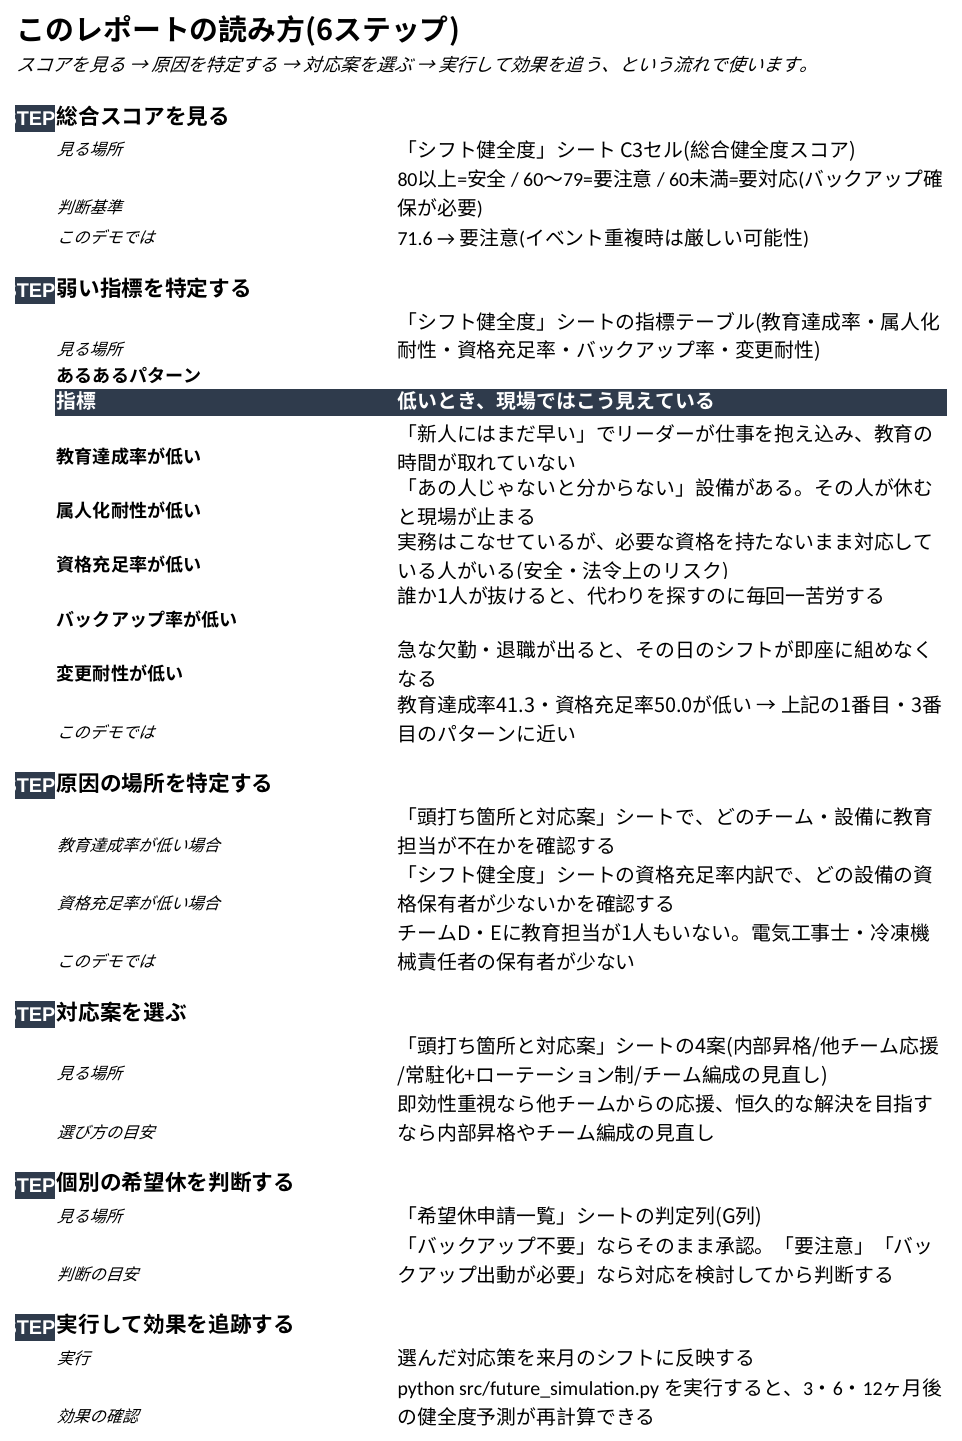
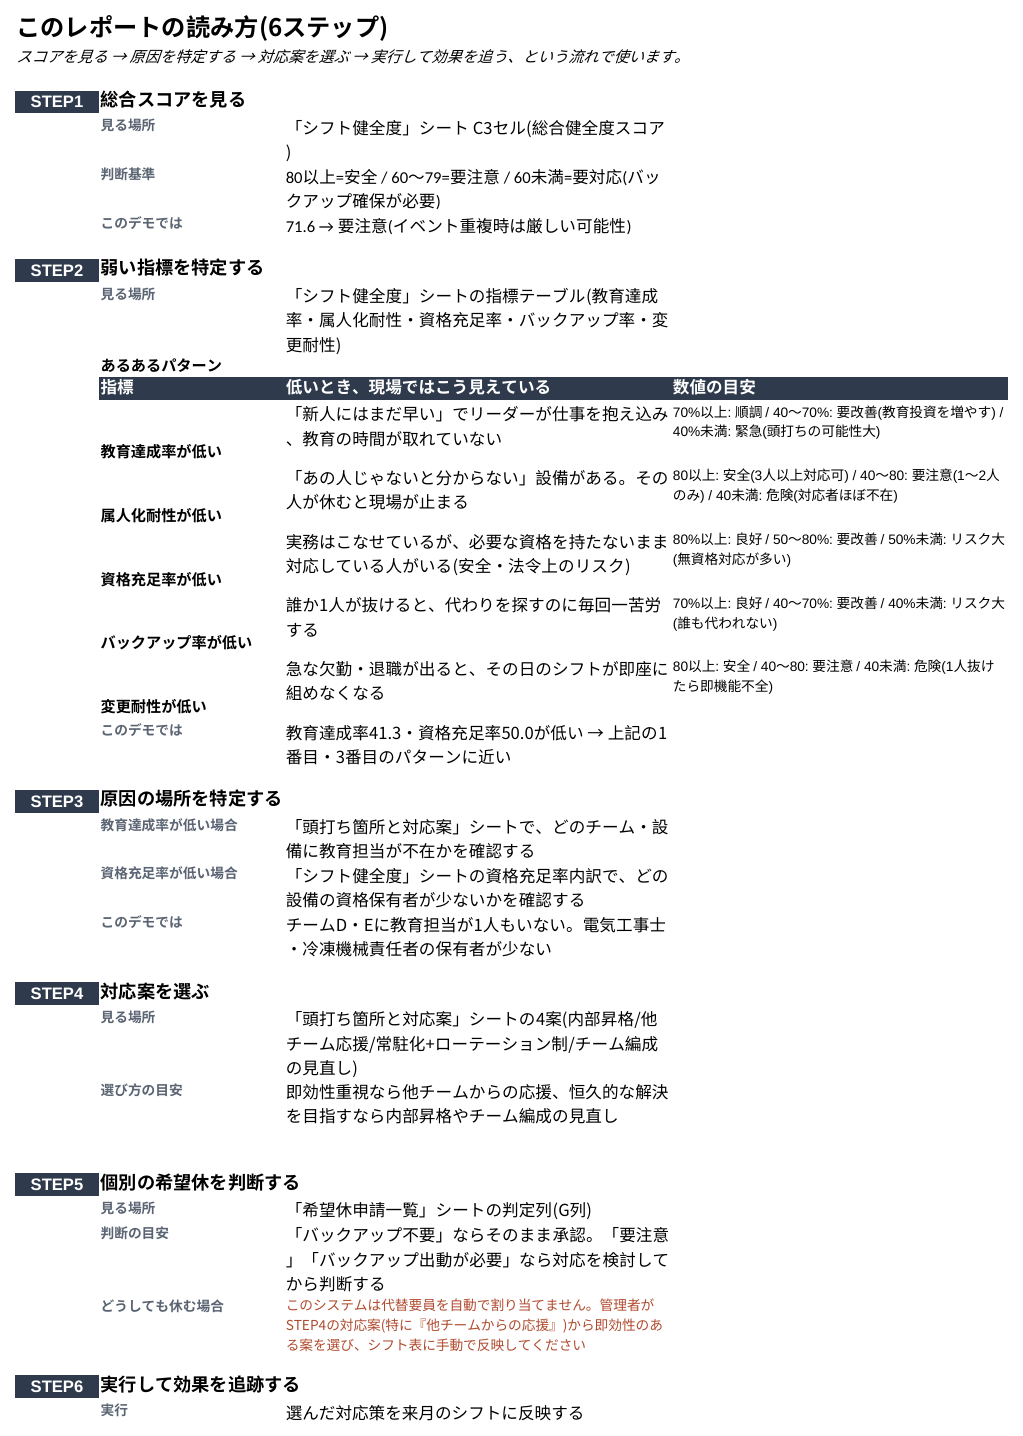
使い方シートの見た目修正・数値目安追加・メンバー向け手順追加、ダッシュボードのメンバービューに健全度表示を追加

diff --git a/dashboard/ShiftDashboard.jsx b/dashboard/ShiftDashboard.jsx
@@ -282,6 +282,26 @@ export default function ShiftDashboard() {
         <div className="p-8 text-slate-500 text-sm">読み込み中...</div>
       ) : view === "member" ? (
         <main className="p-5 max-w-md mx-auto space-y-6">
+          <div className="bg-slate-900 border border-slate-800 rounded-xl p-4 flex items-center gap-4">
+            <div className="shrink-0">
+              <div className="font-mono text-3xl font-bold" style={{ color: healthColor(DATA.health_overall) }}>
+                {DATA.health_overall.toFixed(1)}
+              </div>
+              <div className="text-[10px] text-slate-500 tracking-widest uppercase text-center">健全度</div>
+            </div>
+            <div className="text-xs text-slate-400 leading-relaxed">
+              <span className="text-slate-200 font-medium">
+                {DATA.health_overall >= 80
+                  ? "現在は余裕があります。"
+                  : DATA.health_overall >= 60
+                  ? "現在はやや余裕がない状態です。"
+                  : "現在は厳しい状態です。"}
+              </span>
+              希望休は通常どおり申請できます。教育・資格取得が進むほど、
+              この数字が上がり、希望休はさらに通りやすくなります。
+            </div>
+          </div>
+
           <div>
             <label className="text-xs text-slate-500 tracking-wide">あなた(デモ用の選択)</label>
             <select

diff --git a/excel/generate_excel_report.py b/excel/generate_excel_report.py
@@ -516,7 +516,7 @@ def build_workbook():
         ws_gaps.cell(row=r, column=3, value=len(b["covers"]))
 
     detail_start = summary_header_row + 1 + len(need["breakdown"]) + 2
-    ws_gaps.cell(row=detail_start, column=1, value="箇所ごとの対応案(3案)").font = BOLD
+    ws_gaps.cell(row=detail_start, column=1, value="箇所ごとの対応案(4案)").font = BOLD
     header_row2 = detail_start + 1
     for c, h in enumerate(["チーム/設備", "案1: 内部昇格", "案2: 他チームからの応援", "案3: 常駐化+ローテーション制", "案4: チーム編成の見直し(異動)"], start=1):
         cell = ws_gaps.cell(row=header_row2, column=c, value=h)
@@ -548,16 +548,17 @@ def build_workbook():
     ws_gaps.row_dimensions[note_row].height = 40
 
     # ---------------- 使い方(読み方6ステップ) ----------------
-    ws_guide.column_dimensions["A"].width = 4
-    ws_guide.column_dimensions["B"].width = 34
-    ws_guide.column_dimensions["C"].width = 55
+    ws_guide.column_dimensions["A"].width = 10
+    ws_guide.column_dimensions["B"].width = 22
+    ws_guide.column_dimensions["C"].width = 46
+    ws_guide.column_dimensions["D"].width = 40
 
     ws_guide["A1"] = "このレポートの読み方(6ステップ)"
     ws_guide["A1"].font = TITLE_FONT
-    ws_guide.merge_cells("A1:C1")
+    ws_guide.merge_cells("A1:D1")
     ws_guide["A2"] = "スコアを見る → 原因を特定する → 対応案を選ぶ → 実行して効果を追う、という流れで使います。"
     ws_guide["A2"].font = Font(name=FONT_NAME, italic=True, size=10)
-    ws_guide.merge_cells("A2:C2")
+    ws_guide.merge_cells("A2:D2")
 
     def step_header(row, num, title):
         cell = ws_guide.cell(row=row, column=1, value=f"STEP{num}")
@@ -569,7 +570,9 @@ def build_workbook():
         ws_guide.merge_cells(start_row=row, start_column=2, end_row=row, end_column=3)
 
     def detail_line(row, label, text):
-        ws_guide.cell(row=row, column=2, value=label).font = Font(name=FONT_NAME, italic=True, size=9)
+        label_cell = ws_guide.cell(row=row, column=2, value=label)
+        label_cell.font = Font(name=FONT_NAME, bold=True, size=9, color="5A6472")
+        label_cell.alignment = Alignment(vertical="top")
         cell = ws_guide.cell(row=row, column=3, value=text)
         cell.alignment = Alignment(wrap_text=True, vertical="top")
         return cell
@@ -591,23 +594,46 @@ def build_workbook():
     ws_guide.cell(row=r, column=2, value="あるあるパターン").font = Font(name=FONT_NAME, bold=True, size=10)
     r += 1
     header_row = r
-    for c, h in enumerate(["指標", "低いとき、現場ではこう見えている"], start=2):
+    for c, h in enumerate(["指標", "低いとき、現場ではこう見えている", "数値の目安"], start=2):
         cell = ws_guide.cell(row=header_row, column=c, value=h)
         cell.font = HEADER_FONT
         cell.fill = HEADER_FILL
     r += 1
     aruaru = [
-        ("教育達成率が低い", "「新人にはまだ早い」でリーダーが仕事を抱え込み、教育の時間が取れていない"),
-        ("属人化耐性が低い", "「あの人じゃないと分からない」設備がある。その人が休むと現場が止まる"),
-        ("資格充足率が低い", "実務はこなせているが、必要な資格を持たないまま対応している人がいる(安全・法令上のリスク)"),
-        ("バックアップ率が低い", "誰か1人が抜けると、代わりを探すのに毎回一苦労する"),
-        ("変更耐性が低い", "急な欠勤・退職が出ると、その日のシフトが即座に組めなくなる"),
+        (
+            "教育達成率が低い",
+            "「新人にはまだ早い」でリーダーが仕事を抱え込み、教育の時間が取れていない",
+            "70%以上: 順調 / 40〜70%: 要改善(教育投資を増やす) / 40%未満: 緊急(頭打ちの可能性大)",
+        ),
+        (
+            "属人化耐性が低い",
+            "「あの人じゃないと分からない」設備がある。その人が休むと現場が止まる",
+            "80以上: 安全(3人以上対応可) / 40〜80: 要注意(1〜2人のみ) / 40未満: 危険(対応者ほぼ不在)",
+        ),
+        (
+            "資格充足率が低い",
+            "実務はこなせているが、必要な資格を持たないまま対応している人がいる(安全・法令上のリスク)",
+            "80%以上: 良好 / 50〜80%: 要改善 / 50%未満: リスク大(無資格対応が多い)",
+        ),
+        (
+            "バックアップ率が低い",
+            "誰か1人が抜けると、代わりを探すのに毎回一苦労する",
+            "70%以上: 良好 / 40〜70%: 要改善 / 40%未満: リスク大(誰も代われない)",
+        ),
+        (
+            "変更耐性が低い",
+            "急な欠勤・退職が出ると、その日のシフトが即座に組めなくなる",
+            "80以上: 安全 / 40〜80: 要注意 / 40未満: 危険(1人抜けたら即機能不全)",
+        ),
     ]
-    for label, text in aruaru:
+    for label, text, threshold in aruaru:
         ws_guide.cell(row=r, column=2, value=label).font = Font(name=FONT_NAME, bold=True, size=10)
         cell = ws_guide.cell(row=r, column=3, value=text)
         cell.alignment = Alignment(wrap_text=True, vertical="top")
-        ws_guide.row_dimensions[r].height = 30
+        th_cell = ws_guide.cell(row=r, column=4, value=threshold)
+        th_cell.alignment = Alignment(wrap_text=True, vertical="top")
+        th_cell.font = Font(name=FONT_NAME, size=9)
+        ws_guide.row_dimensions[r].height = 42
         r += 1
     detail_line(r, "このデモでは", "教育達成率41.3・資格充足率50.0が低い → 上記の1番目・3番目のパターンに近い")
     r += 2
@@ -633,6 +659,13 @@ def build_workbook():
     detail_line(r, "見る場所", "「希望休申請一覧」シートの判定列(G列)")
     r += 1
     detail_line(r, "判断の目安", "「バックアップ不要」ならそのまま承認。「要注意」「バックアップ出動が必要」なら対応を検討してから判断する")
+    r += 1
+    note_cell2 = detail_line(
+        r, "どうしても休む場合",
+        "このシステムは代替要員を自動で割り当てません。管理者がSTEP4の対応案(特に『他チームからの応援』)"
+        "から即効性のある案を選び、シフト表に手動で反映してください",
+    )
+    note_cell2.font = Font(name=FONT_NAME, size=9, color="B04A2E")
     r += 2
 
     step_header(r, 6, "実行して効果を追跡する")
@@ -640,6 +673,26 @@ def build_workbook():
     detail_line(r, "実行", "選んだ対応策を来月のシフトに反映する")
     r += 1
     detail_line(r, "効果の確認", "python src/future_simulation.py を実行すると、3・6・12ヶ月後の健全度予測が再計算できる")
+    r += 2
+
+    step_header(r, "0", "【メンバー向け】スマホで健全度を見てから希望休を申請する")
+    r += 1
+    detail_line(r, "使うもの", "dashboard/ShiftDashboard.jsx(スマホのブラウザ/claude.aiのアーティファクトとして動作)")
+    r += 1
+    detail_line(r, "手順1", "ダッシュボードを開き、メンバービューで自分の名前を選ぶ")
+    r += 1
+    detail_line(r, "手順2", "画面上部に表示される『現在の健全度』を見る(このデモではメンバー全員が同じ数値を見る組織全体の健全度)")
+    r += 1
+    detail_line(r, "手順3", "自分のシフトを確認し、休みたい日付・理由を入力して申請する")
+    r += 1
+    detail_line(r, "手順4", "申請は管理者ビューに即時反映され、承認/却下の結果もこの画面に表示される")
+    r += 1
+    note_cell3 = detail_line(
+        r, "現状の制約",
+        "『この日にこの人が休んだら健全度が何点になるか』という個人単位のシミュレーションは、"
+        "現バージョンでは管理者ビュー側(STEP4・5)でのみ確認できる。メンバー個人向けのシミュレーションはV2で検討",
+    )
+    note_cell3.font = Font(name=FONT_NAME, size=9, color="B04A2E")
 
     OUT_PATH.parent.mkdir(parents=True, exist_ok=True)
     wb.save(OUT_PATH)

diff --git a/README.md b/README.md
@@ -21,7 +21,8 @@ STEP0〜STEP8まですべて完了済みです。以下の3通りの見方があ
 `excel/A2EWorks_シフト健全度レポート_2026年8月.xlsx` を開いてください。
 最初の「使い方」シートに、スコアを見てから改善アクションに落とし込むまでの
 6ステップの読み方ガイドが入っています(「あ、これウチだ」と思ってもらえる
-現場あるあるパターン付き)。
+現場あるあるパターンと、指標ごとの数値の目安付き)。管理者向けのSTEP1〜6に加えて、
+メンバー向けにスマホでの健全度確認〜希望休申請の手順(STEP0)も載せています。
 
 **使い方シート**(読み方6ステップ+よくあるパターン)
 ![使い方ガイド](docs/images/usage_guide.png)
@@ -44,7 +45,7 @@ STEP0〜STEP8まですべて完了済みです。以下の3通りの見方があ
 ### 2. ダッシュボード(スマホ想定・双方向プロトタイプ)
 `dashboard/ShiftDashboard.jsx` をclaude.aiに貼る(またはアップロードする)と、
 アーティファクトとして動く画面が開きます。
-- **メンバービュー**: 自分のシフトを確認し、希望休を申請
+- **メンバービュー**: 現在の組織全体の健全度を確認したうえで、自分のシフトを確認し、希望休を申請
 - **管理者ビュー**: 健全度・希望休の承認/却下・未来予測・頭打ち対応案
 
 ### 3. Pythonで裏側のロジックを直接動かす
@@ -229,7 +230,8 @@ python src/future_simulation.py  # 3/6/12ヶ月後の予測・頭打ち検出・
 
 `dashboard/ShiftDashboard.jsx` は Claude のアーティファクト機能(永続ストレージ `window.storage`)を使い、
 
-- **メンバービュー**: 自分のシフトをカレンダーで確認し、希望休を申請
+- **メンバービュー**: 現在の組織全体の健全度を確認したうえで、自分のシフトをカレンダーで確認し、希望休を申請
+  (「この日に自分が休んだら何点になるか」という個人単位のシミュレーションはV2で検討)
 - **管理者ビュー**: シフト健全度スコア(STEP4)、実際に衝突している希望休だけの抽出、
   夜勤上限オーバー(STEP5)を確認しながら、その場で承認/却下
 
